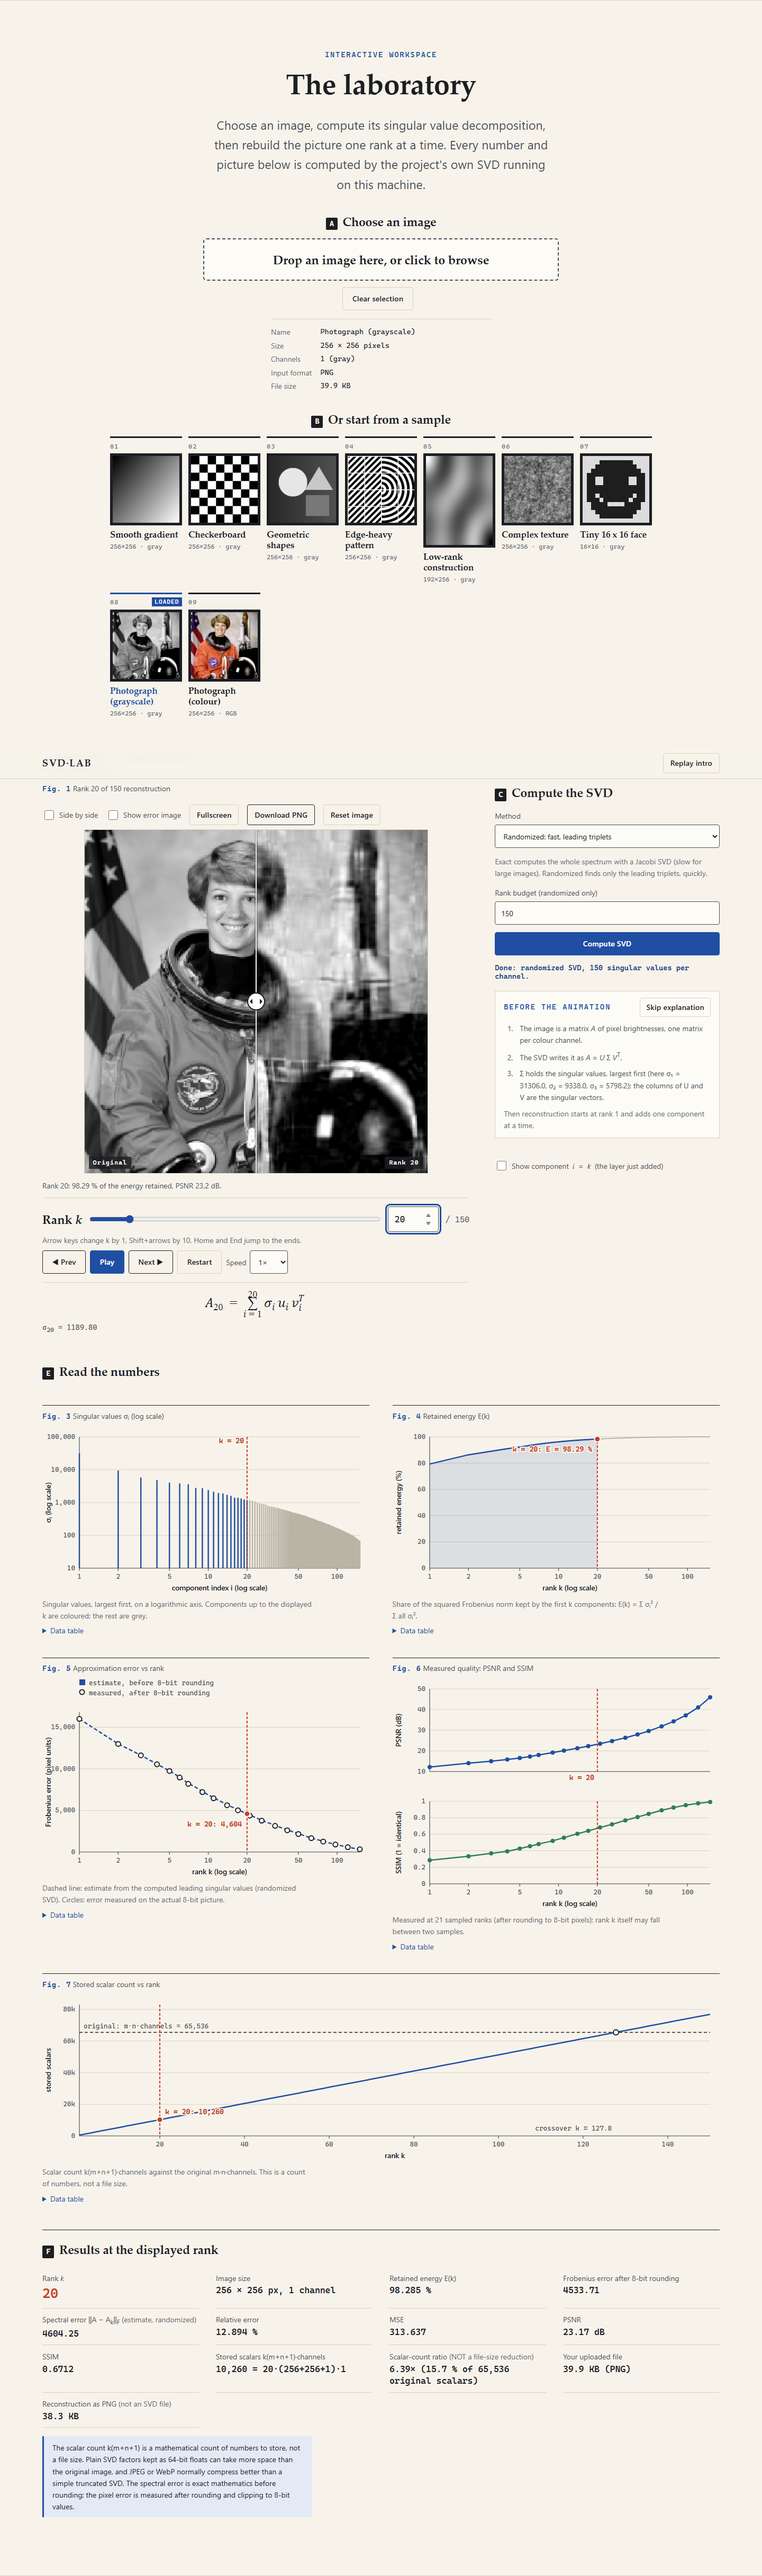
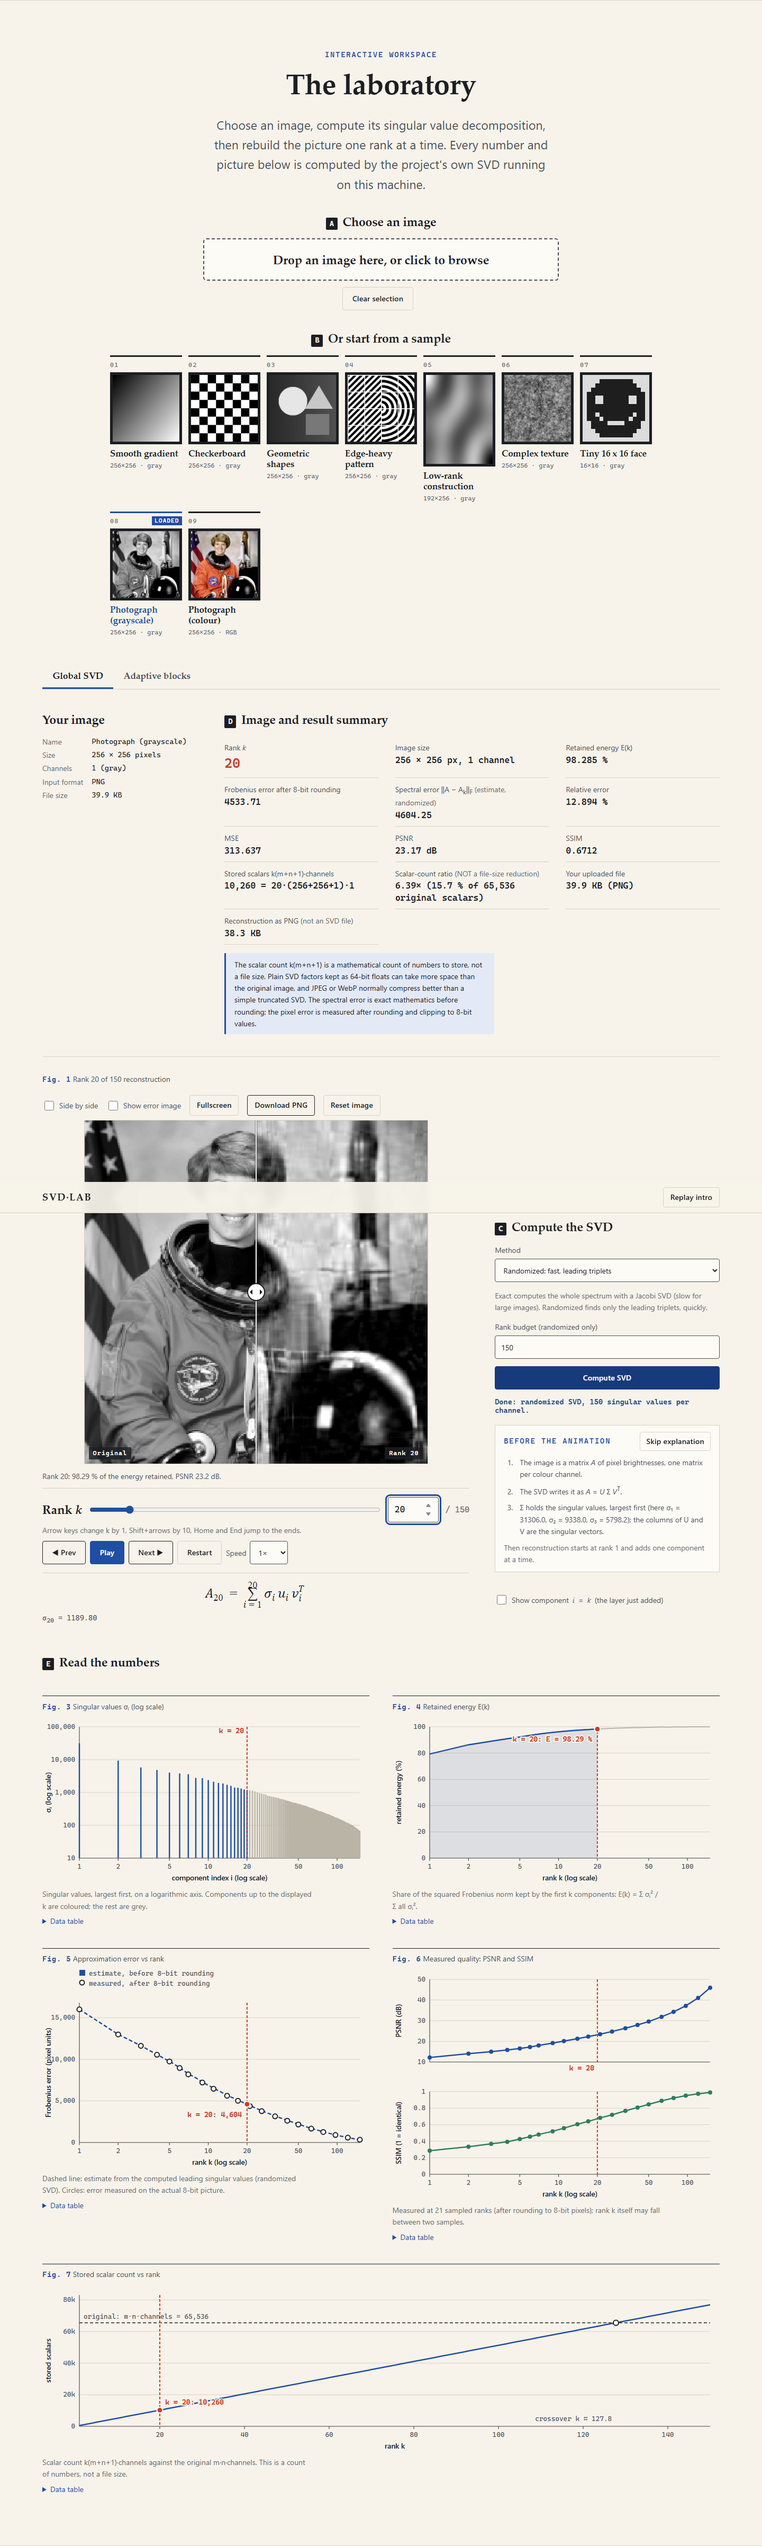
Summary strip with file facts and result numbers above the stage and graphs

diff --git a/svdcomp/templates/_lab.html b/svdcomp/templates/_lab.html
@@ -23,8 +23,6 @@
           <p class="lab-busy" id="lab-busy" role="status" aria-live="polite" data-testid="lab-busy"></p>
         </div>
         <div class="lab-error" id="lab-error" role="alert" data-testid="lab-error" hidden></div>
-        <dl class="lab-meta" id="image-meta" data-testid="image-meta" hidden></dl>
-        <p class="lab-meta-notes" id="image-notes" data-testid="image-notes" hidden></p>
       </div>
       <div class="lab-gallery-col">
         <h3 class="lab-step"><span class="lab-step-no">B</span> Or start from a sample</h3>
@@ -39,6 +37,35 @@
       <div class="lab-tabs" role="tablist" aria-label="Compression method">
         <button role="tab" id="tab-global" data-testid="tab-global" aria-selected="true" aria-controls="panel-global" type="button">Global SVD</button>
         <button role="tab" id="tab-blocks" data-testid="tab-blocks" aria-selected="false" aria-controls="panel-blocks" tabindex="-1" type="button">Adaptive blocks</button>
+      </div>
+
+      <div class="lab-summary">
+        <div class="lab-summary-file">
+          <h3 class="lab-step">Your image</h3>
+        <dl class="lab-meta" id="image-meta" data-testid="image-meta" hidden></dl>
+        <p class="lab-meta-notes" id="image-notes" data-testid="image-notes" hidden></p>
+        </div>
+        <div class="lab-results" id="results" data-testid="results">
+          <h3 class="lab-step"><span class="lab-step-no">D</span> Image and result summary</h3>
+          <dl class="lab-dl">
+            <div><dt>Rank <i>k</i></dt><dd id="r-k" data-testid="r-k">–</dd></div>
+            <div><dt>Image size</dt><dd id="r-dim" data-testid="r-dim">–</dd></div>
+            <div><dt>Retained energy E(k)</dt><dd id="r-energy" data-testid="r-energy">–</dd></div>
+            <div><dt>Frobenius error after 8-bit rounding</dt><dd id="r-frob" data-testid="r-frob">–</dd></div>
+            <div><dt>Spectral error ‖A − A<sub>k</sub>‖<sub>F</sub> <span class="muted" id="r-spec-kind"></span></dt><dd id="r-spectral" data-testid="r-spectral">–</dd></div>
+            <div><dt>Relative error</dt><dd id="r-rel" data-testid="r-rel">–</dd></div>
+            <div><dt>MSE</dt><dd id="r-mse" data-testid="r-mse">–</dd></div>
+            <div><dt>PSNR</dt><dd id="r-psnr" data-testid="r-psnr">–</dd></div>
+            <div><dt>SSIM</dt><dd id="r-ssim" data-testid="r-ssim">–</dd></div>
+            <div><dt>Stored scalars k(m+n+1)·channels</dt><dd id="r-stored" data-testid="r-stored">–</dd></div>
+            <div><dt>Scalar-count ratio <span class="muted">(NOT a file-size reduction)</span></dt><dd id="r-ratio" data-testid="r-ratio">–</dd></div>
+            <div><dt>Your uploaded file</dt><dd id="r-source" data-testid="r-source">–</dd></div>
+            <div><dt>Reconstruction as PNG <span class="muted">(not an SVD file)</span></dt><dd id="r-png" data-testid="r-png">–</dd></div>
+          </dl>
+          <p class="note secondary">The scalar count k(m+n+1) is a mathematical count of numbers to store, not a file size. Plain SVD factors
+            kept as 64-bit floats can take more space than the original image, and JPEG or WebP normally compress better than a simple
+            truncated SVD. The spectral error is exact mathematics before rounding; the pixel error is measured after rounding and clipping to 8-bit values.</p>
+        </div>
       </div>
 
       <div class="lab-grid">
@@ -213,27 +240,6 @@
           <figure class="lab-chart lab-chart--wide"><div id="chart-storage" data-testid="chart-storage"></div></figure>
         </div>
 
-        <div class="lab-results" id="results" data-testid="results">
-          <h3 class="lab-step"><span class="lab-step-no">F</span> Results at the displayed rank</h3>
-          <dl class="lab-dl">
-            <div><dt>Rank <i>k</i></dt><dd id="r-k" data-testid="r-k">–</dd></div>
-            <div><dt>Image size</dt><dd id="r-dim" data-testid="r-dim">–</dd></div>
-            <div><dt>Retained energy E(k)</dt><dd id="r-energy" data-testid="r-energy">–</dd></div>
-            <div><dt>Frobenius error after 8-bit rounding</dt><dd id="r-frob" data-testid="r-frob">–</dd></div>
-            <div><dt>Spectral error ‖A − A<sub>k</sub>‖<sub>F</sub> <span class="muted" id="r-spec-kind"></span></dt><dd id="r-spectral" data-testid="r-spectral">–</dd></div>
-            <div><dt>Relative error</dt><dd id="r-rel" data-testid="r-rel">–</dd></div>
-            <div><dt>MSE</dt><dd id="r-mse" data-testid="r-mse">–</dd></div>
-            <div><dt>PSNR</dt><dd id="r-psnr" data-testid="r-psnr">–</dd></div>
-            <div><dt>SSIM</dt><dd id="r-ssim" data-testid="r-ssim">–</dd></div>
-            <div><dt>Stored scalars k(m+n+1)·channels</dt><dd id="r-stored" data-testid="r-stored">–</dd></div>
-            <div><dt>Scalar-count ratio <span class="muted">(NOT a file-size reduction)</span></dt><dd id="r-ratio" data-testid="r-ratio">–</dd></div>
-            <div><dt>Your uploaded file</dt><dd id="r-source" data-testid="r-source">–</dd></div>
-            <div><dt>Reconstruction as PNG <span class="muted">(not an SVD file)</span></dt><dd id="r-png" data-testid="r-png">–</dd></div>
-          </dl>
-          <p class="note secondary">The scalar count k(m+n+1) is a mathematical count of numbers to store, not a file size. Plain SVD factors
-            kept as 64-bit floats can take more space than the original image, and JPEG or WebP normally compress better than a simple
-            truncated SVD. The spectral error is exact mathematics before rounding; the pixel error is measured after rounding and clipping to 8-bit values.</p>
-        </div>
       </div>
     </div>
   </div>

diff --git a/svdcomp/static/css/workspace.css b/svdcomp/static/css/workspace.css
@@ -217,3 +217,11 @@
 .lab-charts { margin-top: 3rem; }
 @media (max-width: 1000px) { .lab-side { position: static; } }
 .lab-drop-col .lab-step, .lab-gallery-col .lab-step { justify-content: center; }
+
+/* ---------- summary strip: file facts and result numbers right above the stage and graphs ---------- */
+.lab-summary { display: grid; grid-template-columns: minmax(14rem, 19rem) minmax(0, 1fr); gap: clamp(1.5rem, 3vw, 2.5rem); align-items: start;
+               padding: 1.25rem 0 1.75rem; border-bottom: 1px solid var(--rule); margin-bottom: 2rem; }
+.lab-summary .lab-meta { margin: 0; max-width: none; border-top: 0; padding-top: 0; }
+.lab-summary .lab-meta-notes { margin: .5rem 0 0; text-align: left; }
+.lab-summary .lab-results { margin-top: 0; border-top: 0; padding-top: 0; }
+@media (max-width: 1000px) { .lab-summary { grid-template-columns: minmax(0, 1fr); } }
